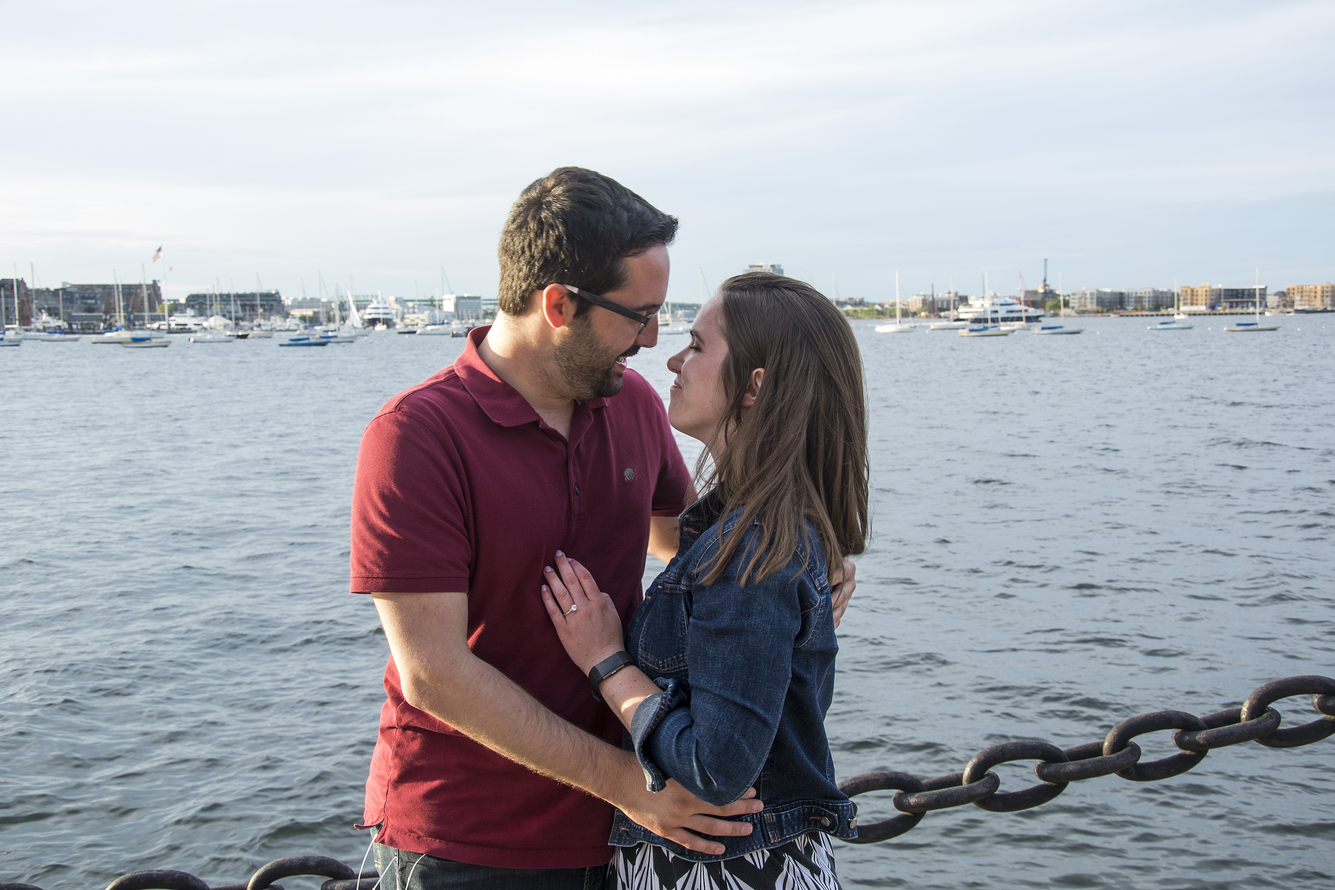
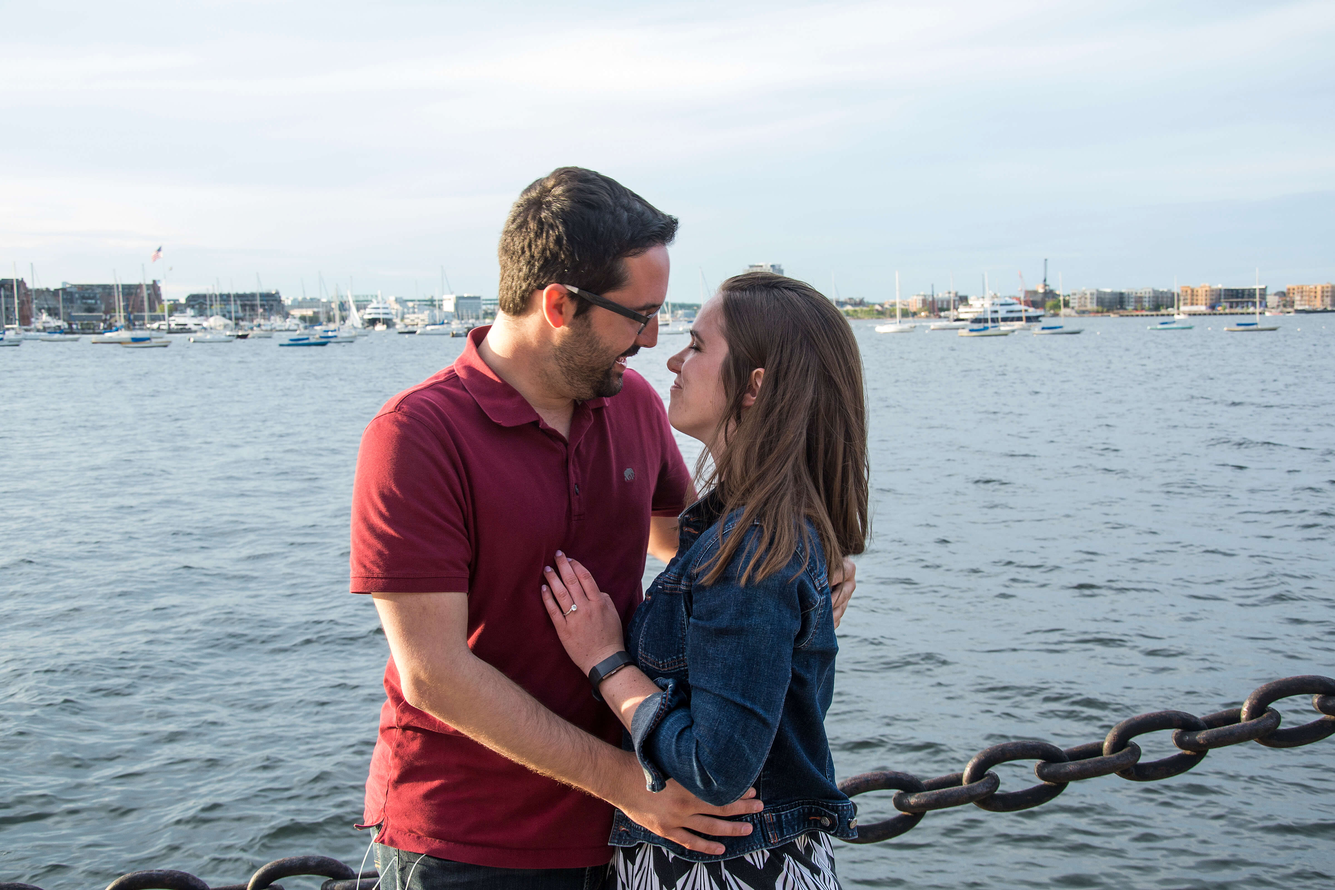
Compressing images

diff --git a/_includes/team.html b/_includes/team.html
@@ -11,7 +11,7 @@
           {% for member in site.data.team %}
             <div class="col-sm-4">
                 <div class="team-member">
-                    <img src="img/team/{{ member.photo }}" class="img-responsive img-circle" alt="{{ member.name }}">
+                    <img src="img/team/{{ member.photo }}" class=" img-circle" alt="{{ member.name }}">
                     <h4>{{ member.name }}</h4>
                     <p class="text-muted">{{ member.bio }}</p>
                     <p class="text-muted">{{ member.description }}</p>
